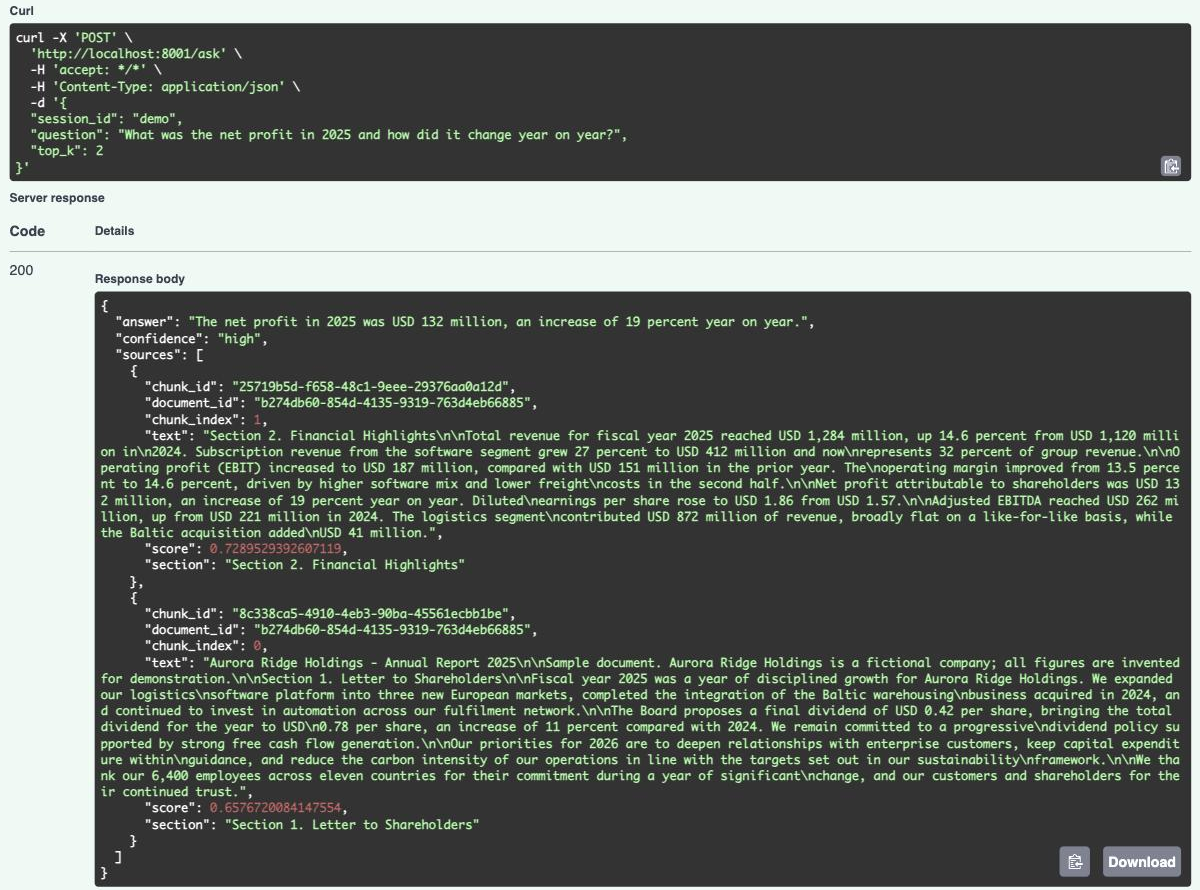
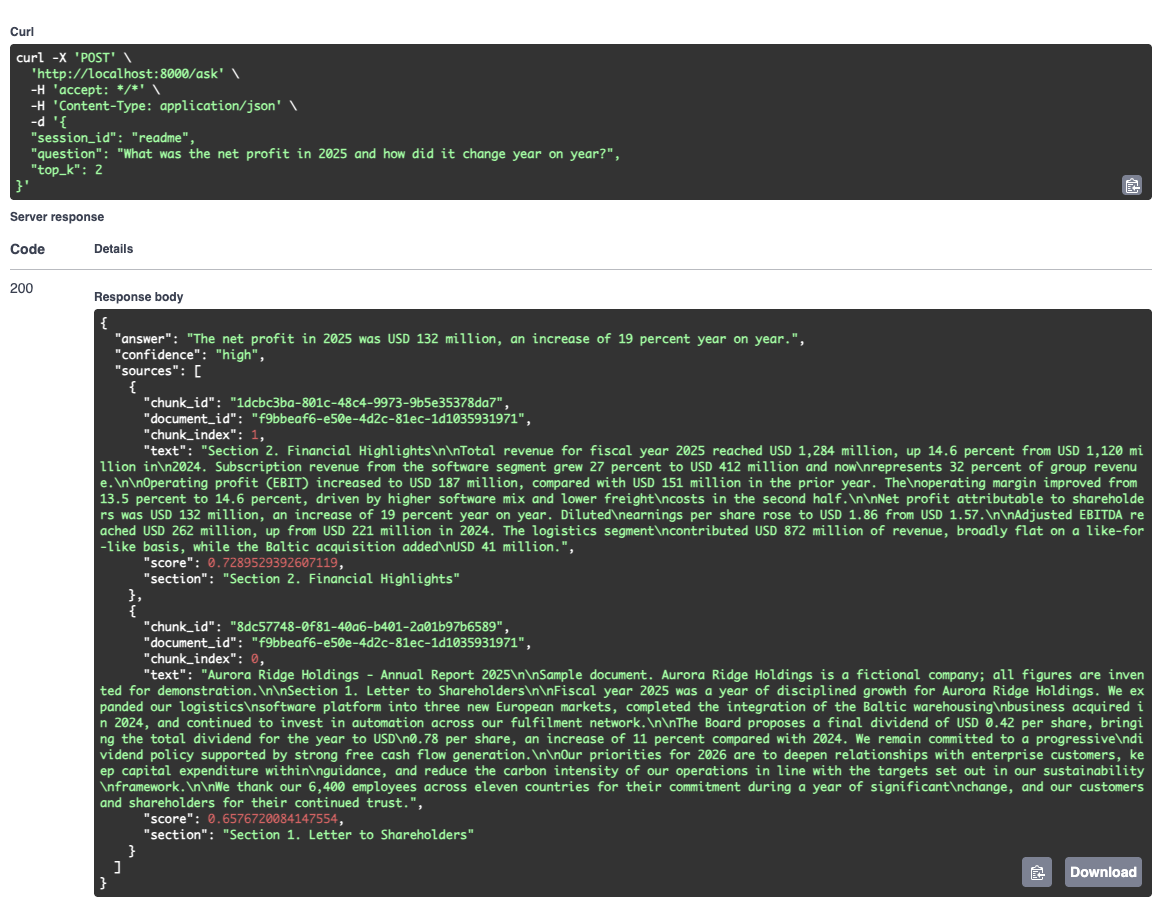
docs: retake the README screenshot on the default port

Changed region(s): [[0.0, 0.0, 1.0, 1.0], [0.0929, 0.9404, 0.1239, 0.9708], [0.062, 0.9708, 0.0929, 1.0]]

diff --git a/README.md b/README.md
@@ -105,8 +105,7 @@ curl -X POST "http://localhost:8000/ask" \
 Example `/ask` call in Swagger UI against a
 [sample annual report](docs/samples/aurora-ridge-annual-report-2025.pdf) of a
 fictional company: the answer comes back with its confidence level and the retrieved
-source chunks, each with its similarity score and document section. The screenshot
-comes from a local run on port 8001; the default is 8000.
+source chunks, each with its similarity score and document section.
 
 ![POST /ask in Swagger UI: answer with confidence and cited source chunks](docs/images/ask-swagger.png)
 
